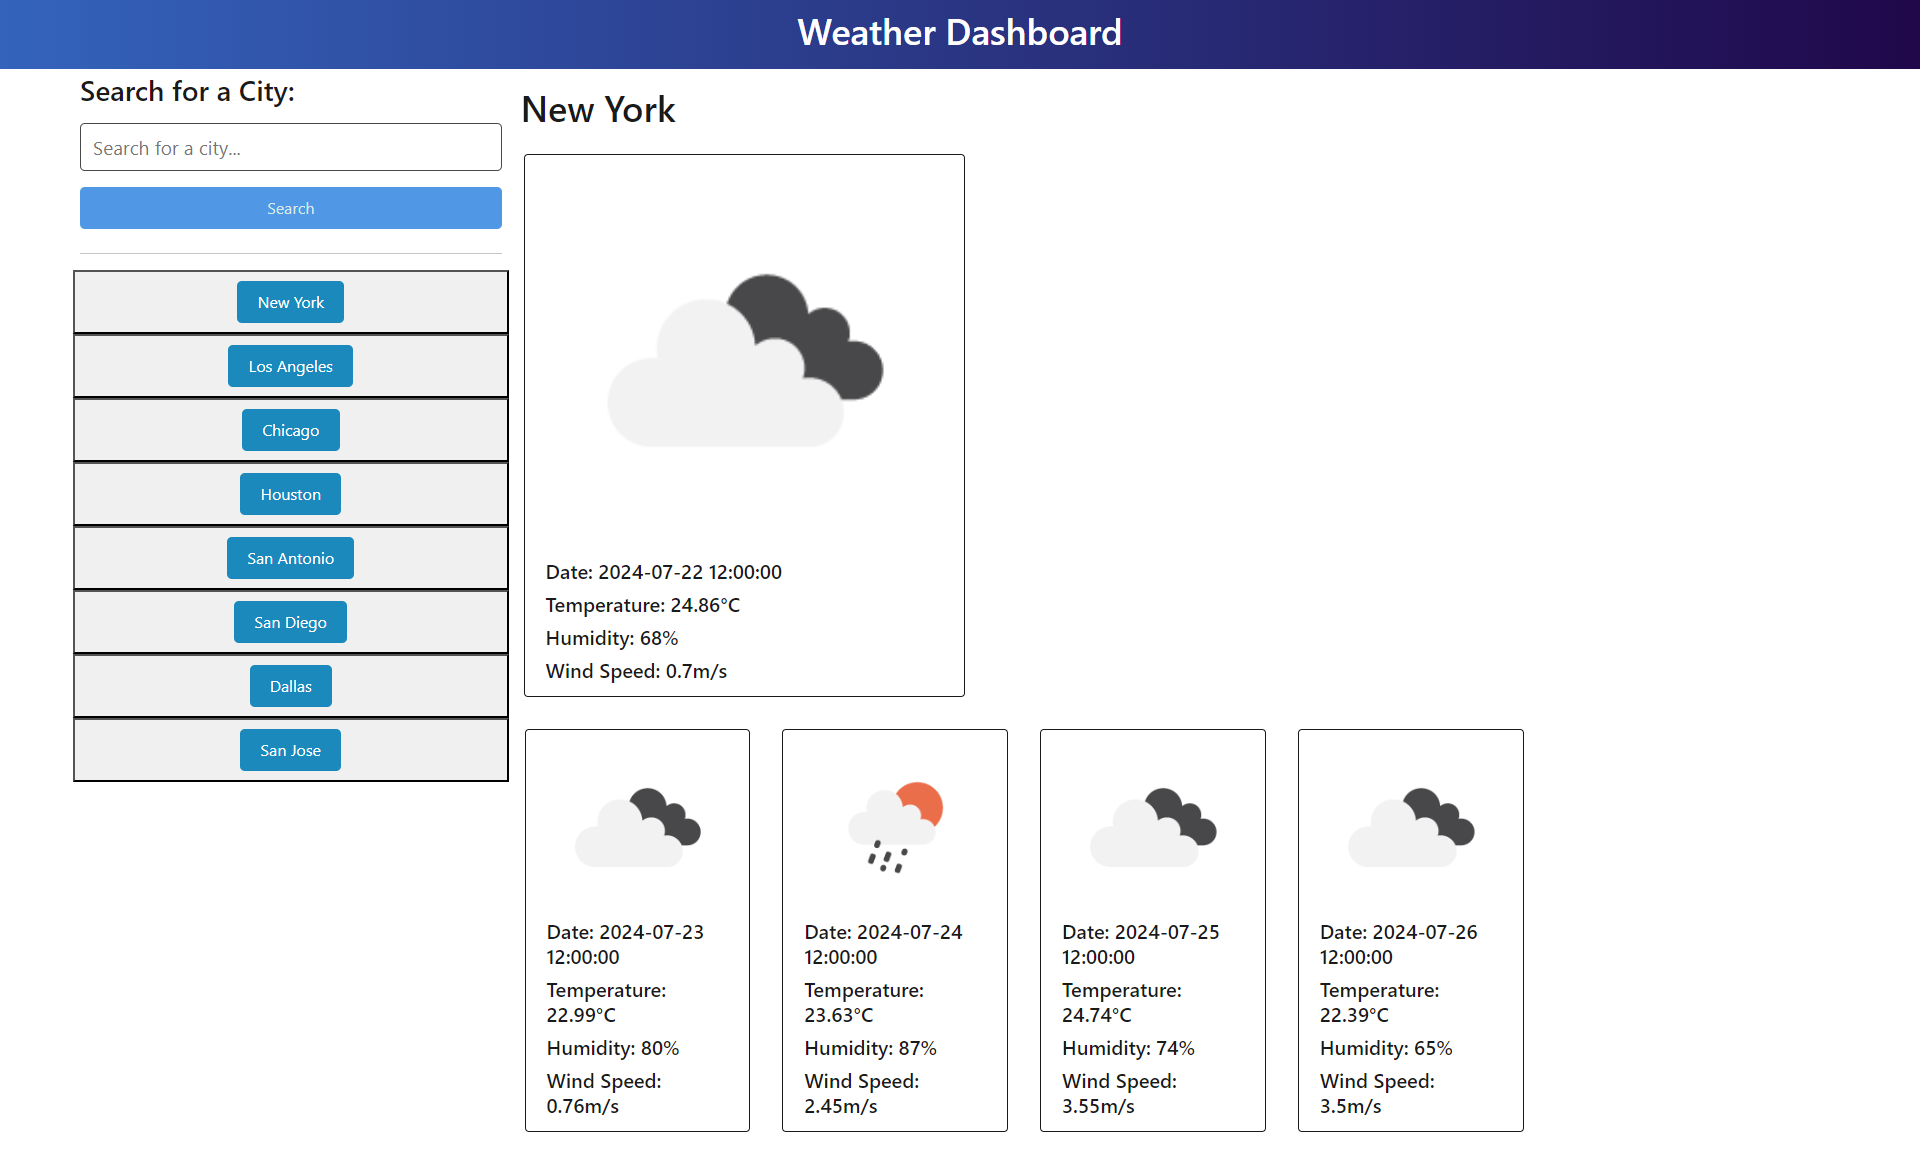
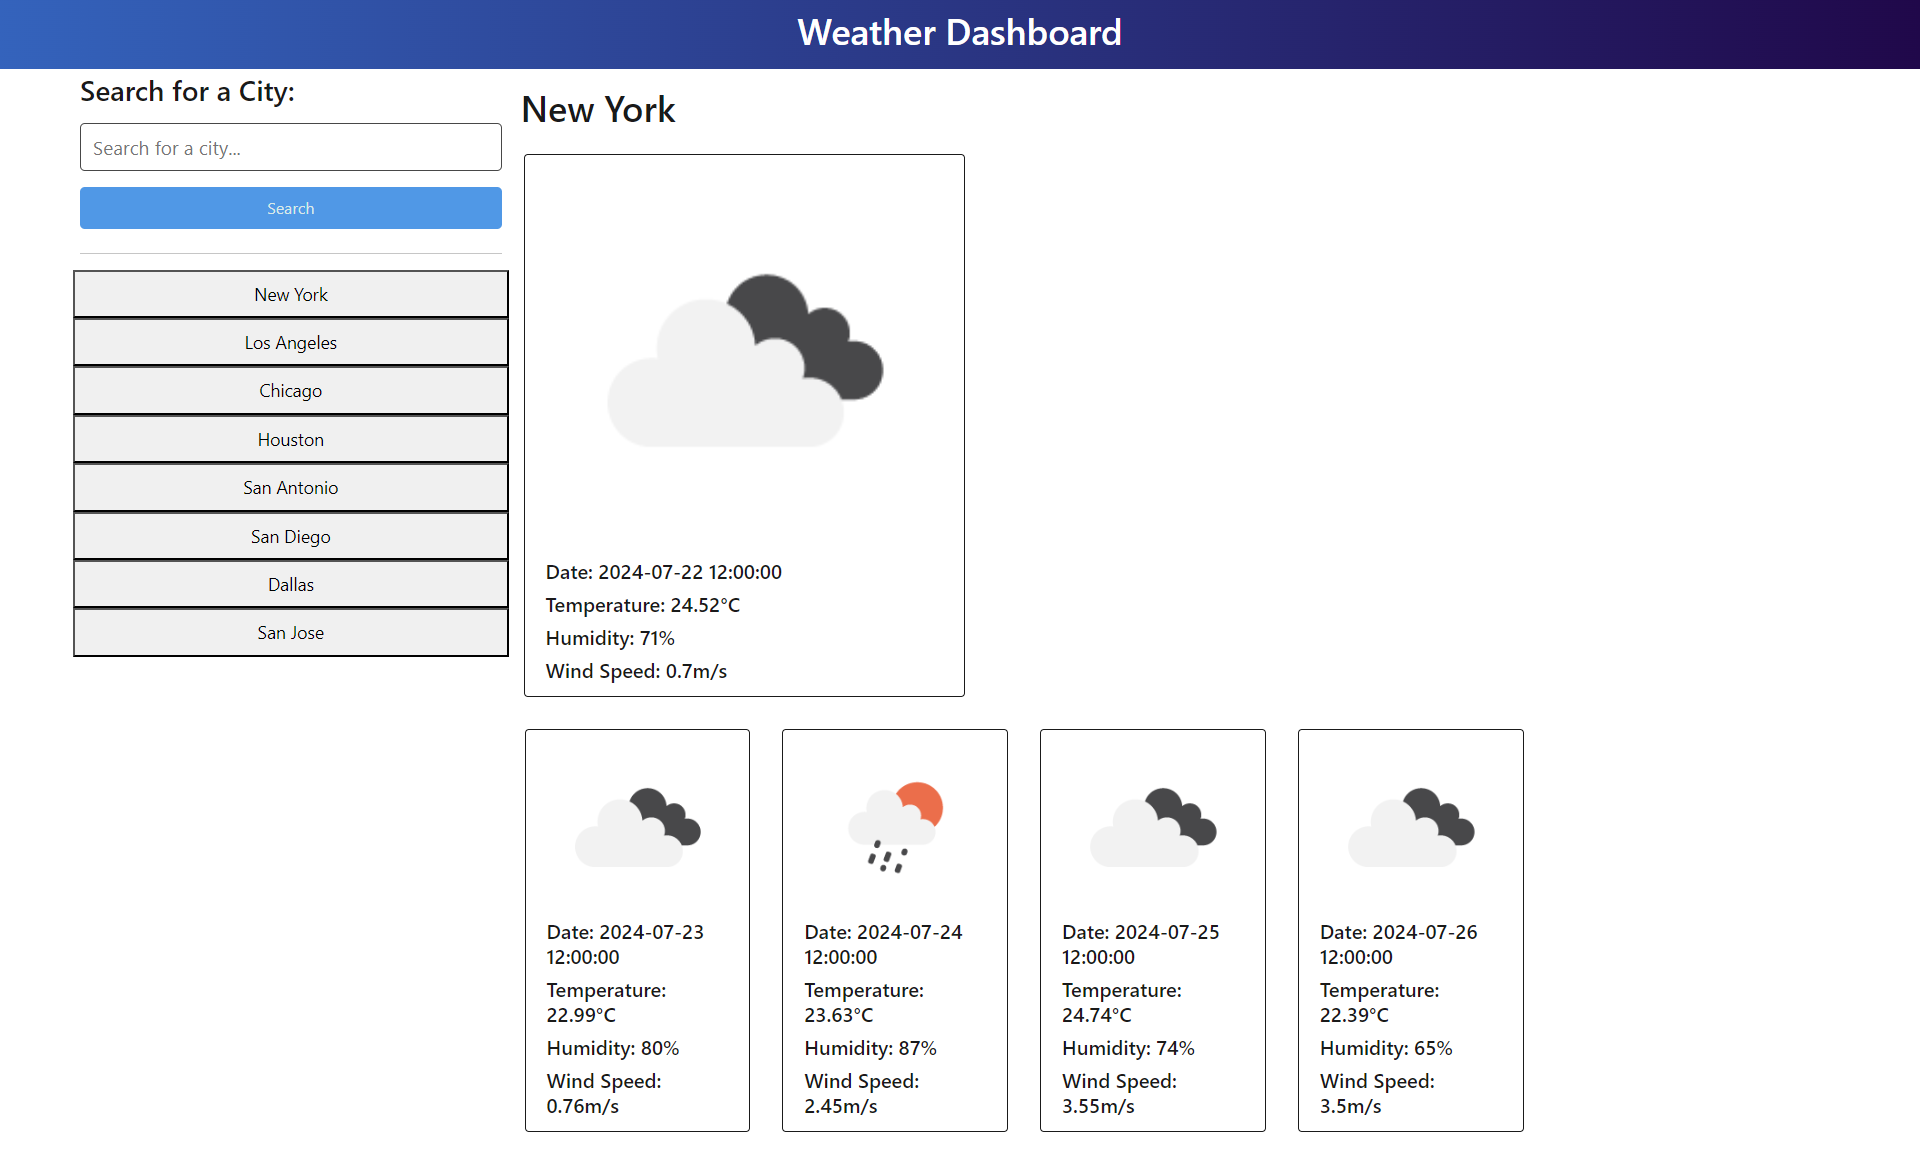
changed button style, and updated images

Changed region(s): [[0.0312, 0.2165, 0.2812, 0.6804], [0.3438, 0.4948, 0.375, 0.5258], [0.3125, 0.5258, 0.3438, 0.5567]]

diff --git a/assets/js/script.js b/assets/js/script.js
@@ -87,7 +87,7 @@ function createHistoryButton() {
   for (let i in cityList) {
     const newButton = document.createElement("button");
     newButton.innerHTML = `
-    <p class="history-button btn btn-link m-2">${cityList[i]}</p>
+    <p class="history-button m-2">${cityList[i]}</p>
     `;
     // newButton.classList.add("history-button");
     // newButton.textContent = cityList[i];
